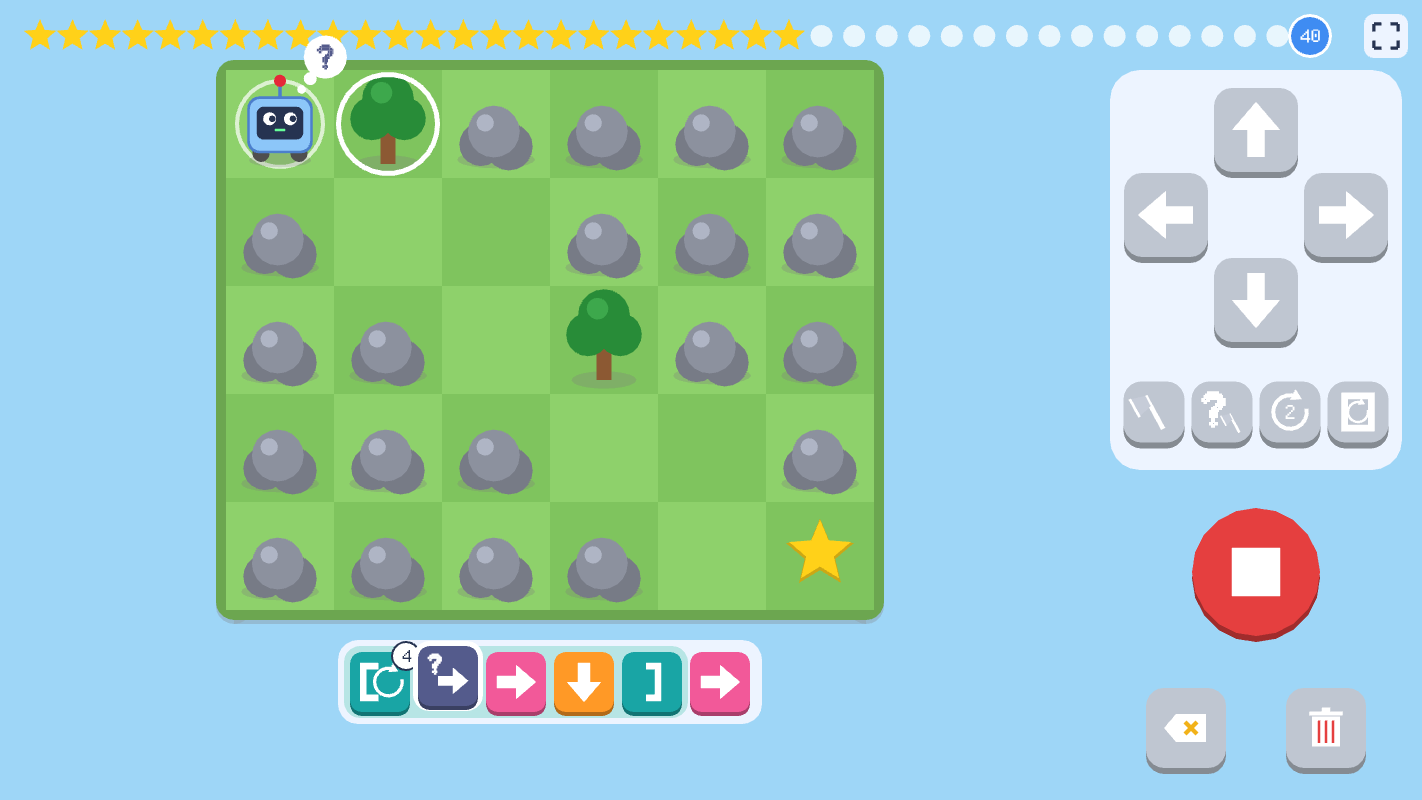
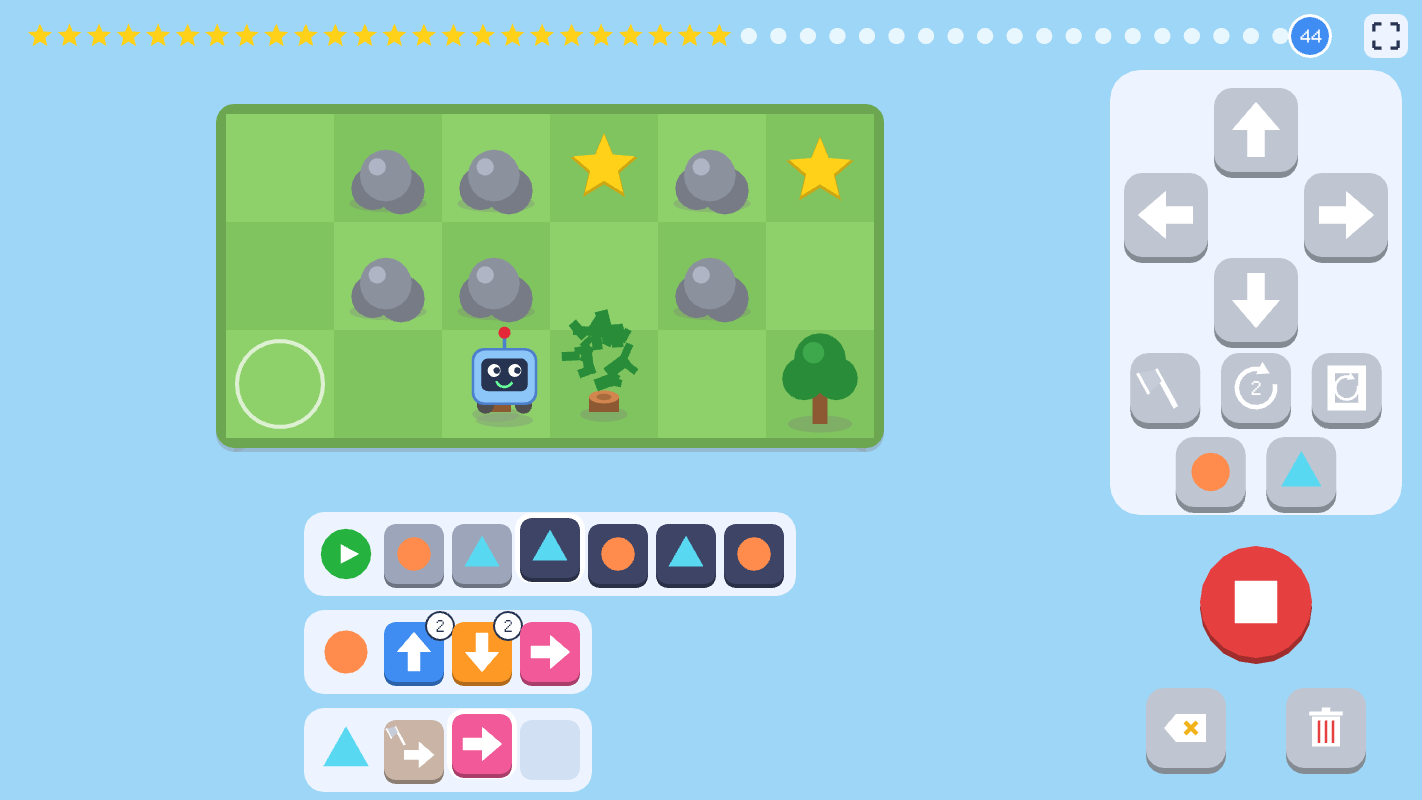
Show a function level in the README screenshot

diff --git a/README.md b/README.md
@@ -4,7 +4,7 @@ A first coding game for young children (made for a 5-year-old). Tap arrows to
 build a program, press play, and watch the robot follow it to collect the
 stars. There's no reading required.
 
-![The robot checking for a tree inside a loop, on level 40](docs/screenshot.png)
+![Level 44: the main program calls the ● and ▲ functions, and the robot is partway through ▲, chopping a tree](docs/screenshot.png)
 
 Across 44 levels it introduces:
 
